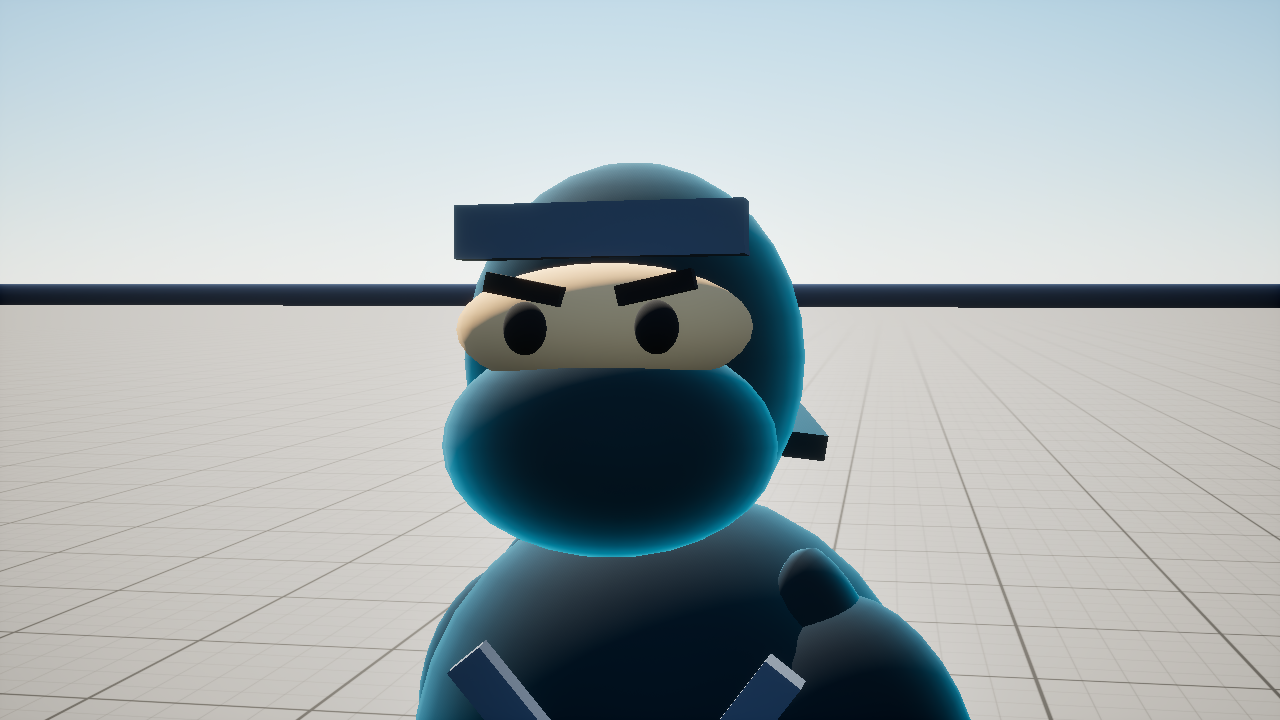
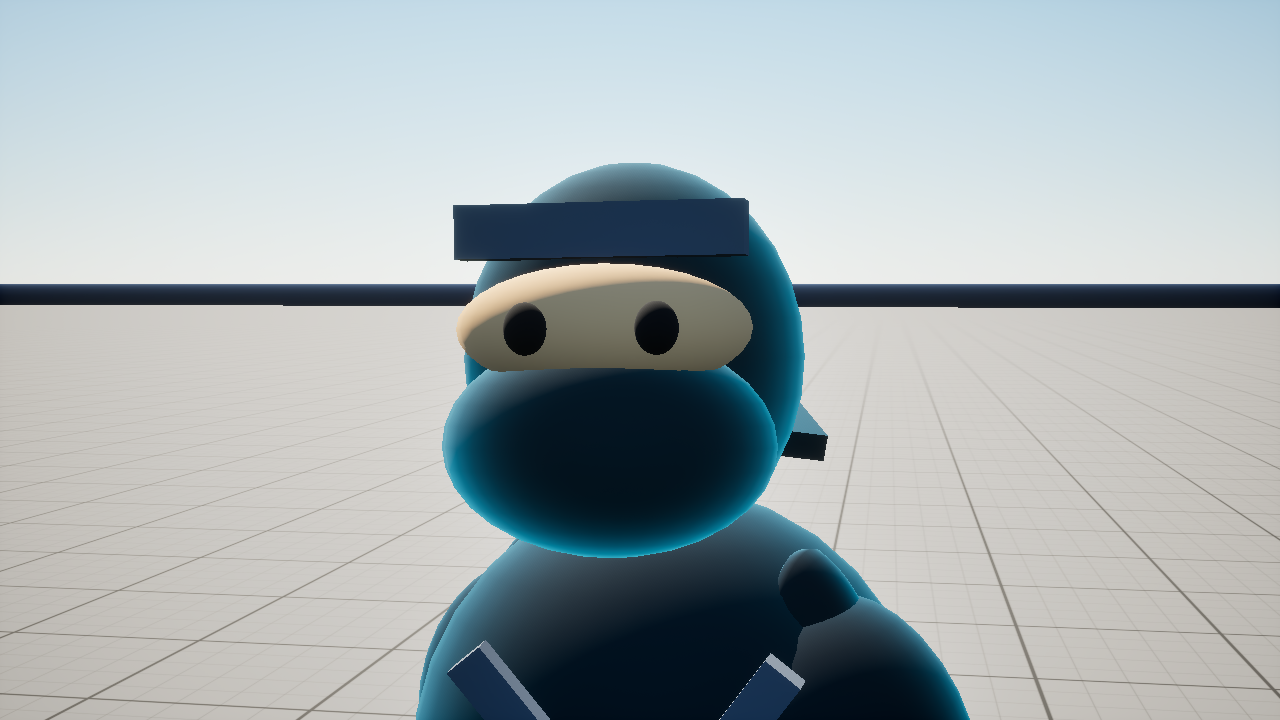
fix: remove ninja eyebrows

Changed region(s): [[0.4688, 0.3667, 0.5625, 0.4278], [0.375, 0.3667, 0.4375, 0.4278]]

diff --git a/Source/IkebukuroNinjaCity/Ninja/NinjaAppearance.cpp b/Source/IkebukuroNinjaCity/Ninja/NinjaAppearance.cpp
@@ -55,7 +55,6 @@ void FNinjaAppearance::Apply(ACharacter* Character, bool bRed)
     {
         const FVector Eye=Head+Forward*21+Right*(Side*6)+Up*3;
         Piece(Side<0?TEXT("NinjaEyeLeft"):TEXT("NinjaEyeRight"),Sphere,Eye,FVector(2.4,4,4.8),Mask);
-        Add(Side<0?TEXT("NinjaBrowLeft"):TEXT("NinjaBrowRight"),Cube,Eye+Up*3.5,FVector(2,7,1.8),Mask,TEXT("head"),FQuat(Forward,FMath::DegreesToRadians(Side*12.f))*Facing);
     }
     Piece(TEXT("NinjaHoodKnot"),Sphere,Head-Forward*18+Right*5-Up*6,FVector(13,15,13),Cloth);
     for (int32 Side:{-1,1})
